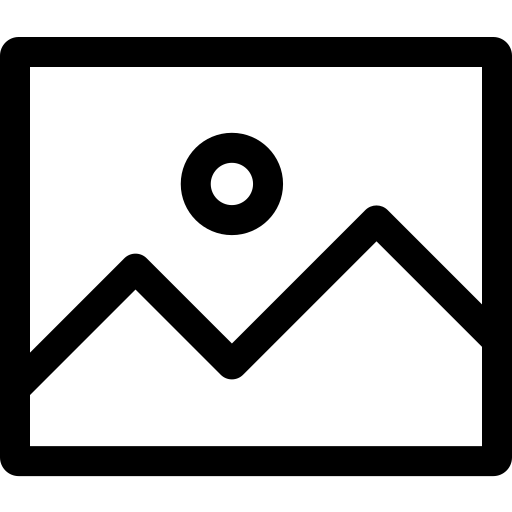
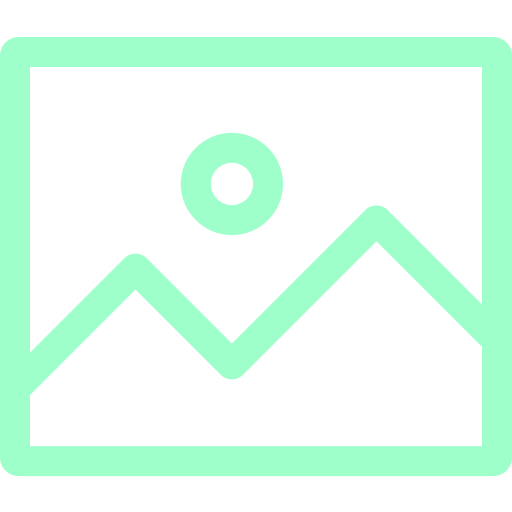
Assets are finally done :)

diff --git a/components/panels/Learn.js b/components/panels/Learn.js
@@ -27,19 +27,19 @@ class Learn extends React.Component {
           <PanelButton
             text="Surfaces"
             height={97}
-            imgUrl="history.png"
+            imgUrl="surface2.png"
             onClick={this.props.selectSection}
           />
           <PanelButton
             text="Locations"
             height={97}
-            imgUrl="3d 2.png"
+            imgUrl="3d 2i.png"
             onClick={this.props.selectSection}
           />
           <PanelButton
             text="Components"
             height={97}
-            imgUrl="block.png"
+            imgUrl="blocki.png"
             onClick={this.props.selectSection}
           />
         </View>
@@ -62,6 +62,7 @@ const styles = StyleSheet.create({
   contentContainer: {
     width: '100%',
     height: 300,
+    marginTop: 20,
     backgroundColor: 'rgba(255, 255, 255, 0.4)',
     flexDirection: 'column',
     justifyContent: 'space-between',

diff --git a/components/panels/GetStarted.js b/components/panels/GetStarted.js
@@ -27,13 +27,13 @@ class GetStarted extends React.Component {
           <PanelButton
             text="React VR"
             height={145}
-            imgUrl="history.png"
+            imgUrl="reactvr.png"
             onClick={this.props.selectSection}
           />
           <PanelButton
             text="React 360"
             height={145}
-            imgUrl="history.png"
+            imgUrl="react360.png"
             onClick={this.props.selectSection}
           />
         </View>
@@ -56,7 +56,7 @@ const styles = StyleSheet.create({
   contentContainer: {
     width: '100%',
     height: 300,
-    // padding: 20,
+    marginTop: 20,
     backgroundColor: 'rgba(255, 255, 255, 0.4)',
     flexDirection: 'column',
     justifyContent: 'space-between',

diff --git a/components/panels/HowItWorks.js b/components/panels/HowItWorks.js
@@ -27,13 +27,13 @@ class HowItWorks extends React.Component {
           <PanelButton
             text="Runtime"
             height={145}
-            imgUrl="r&r.png"
+            imgUrl="r&ri.png"
             onClick={this.props.selectSection}
           />
           <PanelButton
             text="Executors"
             height={145}
-            imgUrl="executors.png"
+            imgUrl="executorsi.png"
             onClick={this.props.selectSection}
           />
         </View>
@@ -56,6 +56,7 @@ const styles = StyleSheet.create({
   contentContainer: {
     width: '100%',
     height: 300,
+    marginTop: 20,
     backgroundColor: 'rgba(255, 255, 255, 0.4)',
     flexDirection: 'column',
     justifyContent: 'space-between',

diff --git a/components/sections/Surfaces.js b/components/sections/Surfaces.js
@@ -14,13 +14,13 @@ class Surfaces extends React.Component {
     return (
       <View style={styles.container}>
         <View style={styles.paneContainer}>
-          <Image style={styles.image} source={asset("web worker.png")} />
+          <Image style={styles.image} source={asset("cylinder.png")} />
           <Text style={styles.text}>
             Cylinder
           </Text>
         </View>
         <View style={styles.paneContainer}>
-          <Image style={styles.image} source={asset("iframe.png")} />
+          <Image style={styles.image} source={asset("flat.png")} />
           <Text style={styles.text}>
             Flat
           </Text>

diff --git a/components/sections/Locations.js b/components/sections/Locations.js
@@ -14,7 +14,7 @@ class Locations extends React.Component {
     return (
       <View style={styles.container}>
         <View style={styles.paneContainer}>
-          <Image style={styles.image} source={asset("3d.png")} />
+          <Image style={styles.image} source={asset("3d 2.png")} />
           <Text style={styles.text}>
             Entity
           </Text>

diff --git a/components/Common/PanelButton.js b/components/Common/PanelButton.js
@@ -65,7 +65,7 @@ const styles = StyleSheet.create({
     justifyContent: 'space-between',
     alignItems: 'center',
     padding: 10,
-    backgroundColor: 'rgba(0, 255, 0, 0.4)',
+    backgroundColor: 'rgba(77, 204, 137, 0.4)',
   },
   image: {
     width: 50,

diff --git a/components/Common/Title.js b/components/Common/Title.js
@@ -34,7 +34,6 @@ const styles = StyleSheet.create({
     flexDirection: 'row',
     alignItems: 'center',
     justifyContent: 'space-between',
-    backgroundColor: 'rgba(255, 100, 255, 0.4)',
   },
   tagOpen: {
     color: '#4dcc89',
